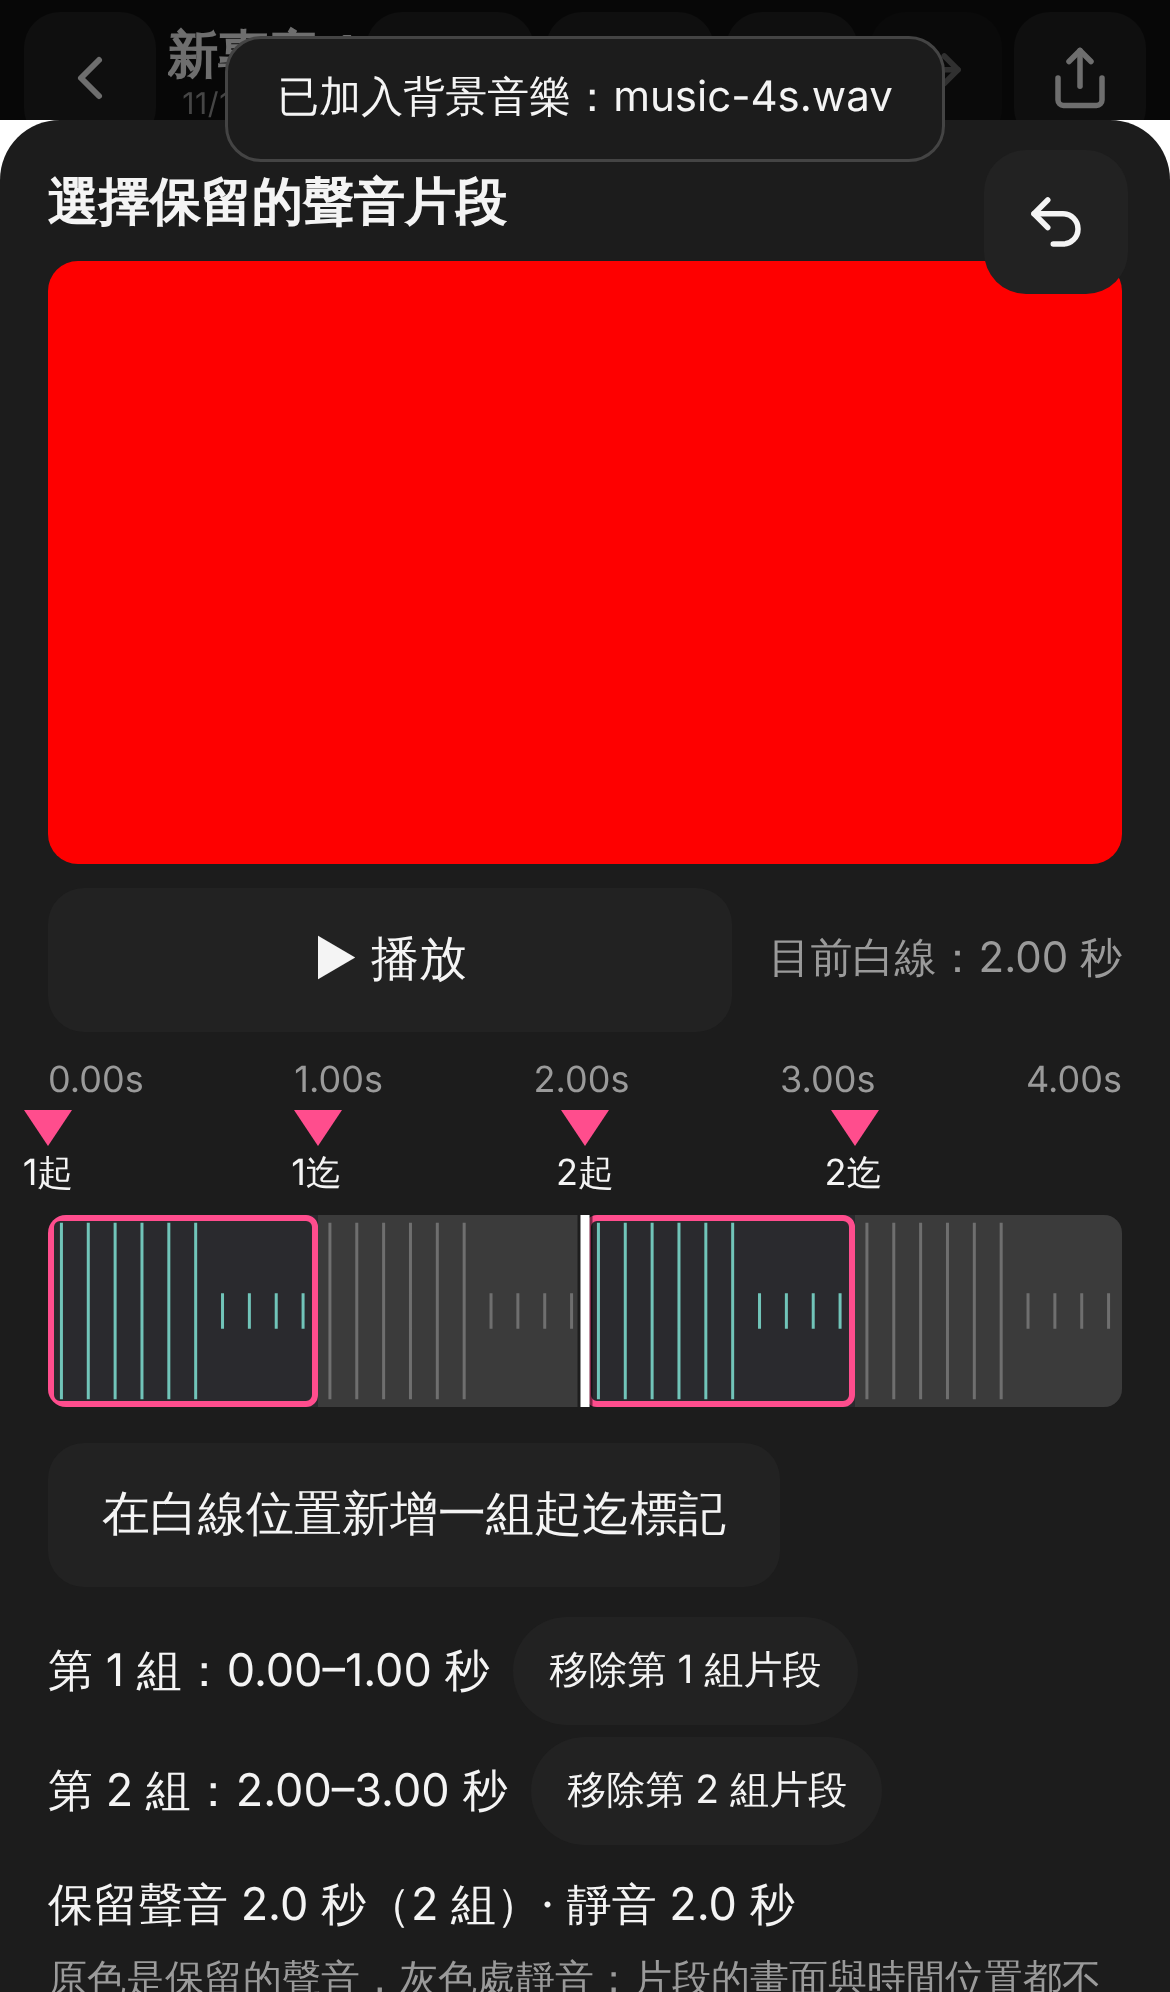
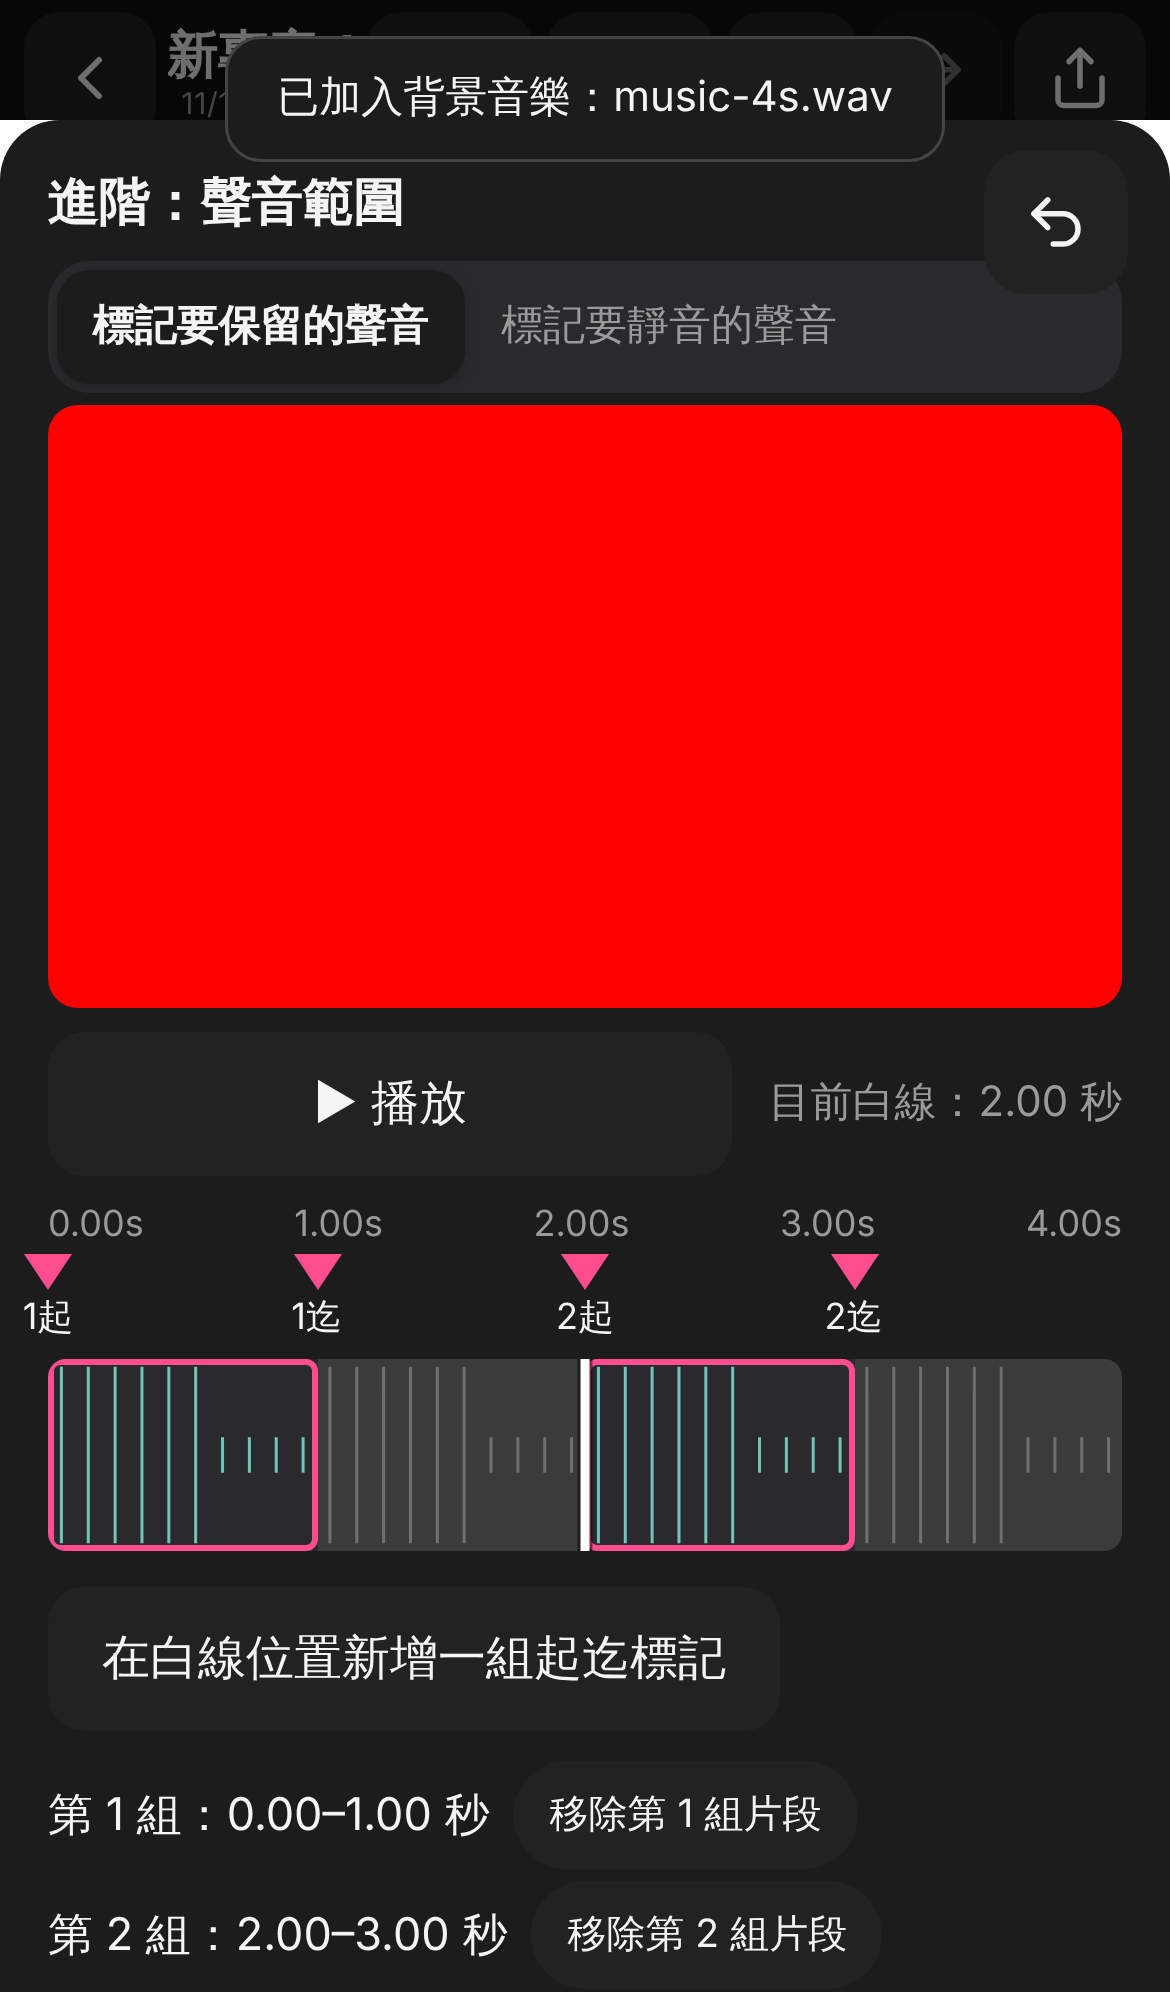
V3 音訊「進階」：可標記保留或標記靜音（互換）

Changed region(s): [[0.0308, 0.4046, 0.9846, 0.7781], [0.0308, 0.8092, 0.9231, 1.0], [0.0308, 0.0622, 0.9846, 0.2179]]

diff --git a/src/app/editor/MuteSheet.tsx b/src/app/editor/MuteSheet.tsx
@@ -1,5 +1,6 @@
+import { useRef, useState } from 'react';
 import { urlFor } from '../../engine/assetUrls';
-import { isFullRange } from '../../engine/audioRanges';
+import { invertRanges, isFullRange } from '../../engine/audioRanges';
 import { MIN_CLIP_DURATION } from '../../model/defaults';
 import type { Asset, VideoItem } from '../../model/types';
 import { editItem } from '../../store/actions';
@@ -7,22 +8,55 @@ import { useProjectStore } from '../../store/projectStore';
 import { useUI } from '../../store/uiStore';
 import { RangeMarkerSheet } from './RangeMarkerSheet';
 
+type R = [number, number];
+const MODE_KEY = 'vc-audio-range-mode';
+const readMode = (): 'keep' | 'silence' => {
+  try {
+    return localStorage.getItem(MODE_KEY) === 'silence' ? 'silence' : 'keep';
+  } catch {
+    return 'keep';
+  }
+};
+
 /**
- * 音訊「靜音標記」：標出片段裡要保留聲音的好幾段（原色保留、灰色靜音）。
- * 不拆片段、畫面與時間位置不變；全部都保留＝不用存標記。
+ * 音訊「進階」：標出聲音的範圍。兩種標法（結果一樣，存的都是「保留聲音的範圍」`audioRanges`）：
+ * - 標記要保留的聲音：標起來的有聲音、其他靜音（原色＝保留、灰＝靜音）
+ * - 標記要靜音的聲音：標起來的靜音、其他保留
+ * 不拆片段、畫面與時間位置不變；全部都保留＝不用存標記。切換標法時，標記會換算成另一種表示（聲音的結果不變）。
  */
 export function MuteSheet({ item, asset, onClose }: { item: VideoItem; asset: Asset; onClose: () => void }) {
   const projectId = useProjectStore((s) => s.project)!.id;
   const player = useUI((s) => s.player);
   const isAudio = asset.kind === 'audio';
   const url = urlFor(projectId, asset.id);
-  const initial = item.audioRanges ?? [[item.trimIn, item.trimIn + item.duration * item.speed]];
+  const span: R = [item.trimIn, item.trimIn + item.duration * item.speed]; // 這個片段用到的素材範圍
+  const keepNow: R[] = (item.audioRanges ?? [span]).map(([a, b]): R => [a, b]);
+  const [mode, setMode] = useState<'keep' | 'silence'>(readMode);
+  // 切換標法時要用目前的標記換算，所以記下來
+  const [initial, setInitial] = useState<R[]>(mode === 'keep' ? keepNow : invertRanges(keepNow, span));
+  const current = useRef<R[]>(initial);
+
+  const switchTo = (m: 'keep' | 'silence') => {
+    if (m === mode) return;
+    const next = invertRanges(current.current, span);
+    try {
+      localStorage.setItem(MODE_KEY, m);
+    } catch {
+      /* 存不了就算了 */
+    }
+    current.current = next;
+    setInitial(next);
+    setMode(m);
+  };
+
   return (
     <RangeMarkerSheet
-      title="選擇保留的聲音片段"
-      mode="mute"
+      key={mode}
+      title="進階：聲音範圍"
+      mode={mode === 'keep' ? 'mute' : 'silence'}
+      allowEmpty={mode === 'silence'}
       duration={asset.duration}
-      ranges={initial.map(([a, b]): [number, number] => [a, b])}
+      ranges={initial}
       minLen={MIN_CLIP_DURATION}
       thumbs={asset.thumbs}
       wave={isAudio ? asset.wave : undefined}
@@ -36,18 +70,49 @@ export function MuteSheet({ item, asset, onClose }: { item: VideoItem; asset: As
             }
           : undefined
       }
+      onRangesChange={(r) => {
+        current.current = r;
+      }}
+      extra={
+        <div className="segmented" role="radiogroup" aria-label="標記方式" data-testid="audio-range-mode">
+          {(
+            [
+              ['keep', '標記要保留的聲音'],
+              ['silence', '標記要靜音的聲音'],
+            ] as const
+          ).map(([m, name]) => (
+            <button
+              key={m}
+              role="radio"
+              aria-checked={mode === m}
+              className={`seg${mode === m ? ' on' : ''}`}
+              data-testid={`audio-mode-${m}`}
+              onClick={() => switchTo(m)}
+            >
+              {name}
+            </button>
+          ))}
+        </div>
+      }
       applyLabel="套用聲音範圍"
       summary={(ranges) => {
-        const keep = ranges.reduce((n, [a, b]) => n + (b - a), 0);
-        return `保留聲音 ${keep.toFixed(1)} 秒（${ranges.length} 組）· 靜音 ${Math.max(asset.duration - keep, 0).toFixed(1)} 秒`;
+        const total = span[1] - span[0];
+        const marked = ranges.reduce((n, [a, b]) => n + (Math.min(b, span[1]) - Math.max(a, span[0])), 0);
+        const keep = mode === 'keep' ? marked : total - marked;
+        return `保留聲音 ${Math.max(keep, 0).toFixed(1)} 秒 · 靜音 ${Math.max(total - keep, 0).toFixed(1)} 秒（${ranges.length} 組標記）`;
       }}
-      hint="原色是保留的聲音，灰色處靜音；片段的畫面與時間位置都不變。點縮圖只移動白線，按「新增」才建立下一組保留的範圍。"
+      hint={
+        mode === 'keep'
+          ? '原色是保留的聲音，灰色處靜音；片段的畫面與時間位置都不變。點縮圖只移動白線，按「新增」才建立下一組。'
+          : '灰色斜線的地方靜音，其他地方保留聲音；片段的畫面與時間位置都不變。點縮圖只移動白線，按「新增」才建立下一組。'
+      }
       onClose={onClose}
       onApply={(ranges) => {
+        const keep = mode === 'keep' ? ranges : invertRanges(ranges, span);
         editItem(item.id, (it) => {
           if (it.type === 'text') return;
-          if (isFullRange(it, ranges)) delete it.audioRanges;
-          else it.audioRanges = ranges.map(([a, b]): [number, number] => [a, b]);
+          if (isFullRange(it, keep)) delete it.audioRanges;
+          else it.audioRanges = keep.map(([a, b]): R => [a, b]);
         });
         onClose();
       }}

diff --git a/src/app/editor/RangeMarkerSheet.tsx b/src/app/editor/RangeMarkerSheet.tsx
@@ -1,5 +1,5 @@
 import { Undo2 } from 'lucide-react';
-import { useEffect, useRef, useState, type PointerEvent as RPointerEvent } from 'react';
+import { useEffect, useRef, useState, type PointerEvent as RPointerEvent, type ReactNode } from 'react';
 import type { Range } from '../../engine/timeline';
 import { toast } from '../../store/uiStore';
 import { thumbStrip } from '../../engine/thumbs';
@@ -14,7 +14,8 @@ import { Wave } from './Wave';
 const clamp = (n: number, lo: number, hi: number) => Math.min(Math.max(n, lo), hi);
 const fmt2 = (n: number) => n.toFixed(2);
 
-export type MarkerMode = 'keep' | 'mute' | 'timing';
+/** keep＝標起來的是留下的；mute＝標起來的是保留聲音的；silence＝標起來的是靜音的；timing＝特效時間 */
+export type MarkerMode = 'keep' | 'mute' | 'silence' | 'timing';
 
 export function RangeMarkerSheet({
   title,
@@ -35,6 +36,9 @@ export function RangeMarkerSheet({
   summary,
   onApply,
   onClose,
+  extra,
+  allowEmpty,
+  onRangesChange,
 }: {
   title: string;
   /** 整條軸的長度（秒） */
@@ -59,6 +63,12 @@ export function RangeMarkerSheet({
   summary?: (ranges: Range[]) => string;
   onApply: (ranges: Range[]) => void;
   onClose: () => void;
+  /** 標題下面多放的東西（例：進階的「保留／靜音」切換） */
+  extra?: ReactNode;
+  /** 一組標記都沒有也可以套用（靜音模式＝沒有要靜音的地方） */
+  allowEmpty?: boolean;
+  /** 標記有變動時通知呼叫端（切換模式時要換算） */
+  onRangesChange?: (ranges: Range[]) => void;
 }) {
   const dur = Math.max(duration, 0.1);
   const [ranges, setRanges] = useState<Range[]>(initial.map((r): Range => [r[0], r[1]]));
@@ -72,7 +82,9 @@ export function RangeMarkerSheet({
   const rangesRef = useRef(ranges);
   useEffect(() => {
     rangesRef.current = ranges;
-  });
+    onRangesChange?.(ranges);
+    // eslint-disable-next-line react-hooks/exhaustive-deps
+  }, [ranges]);
 
   const snapshot = () => {
     undo.current = [...undo.current.slice(-19), rangesRef.current.map((r): Range => [r[0], r[1]])];
@@ -120,7 +132,10 @@ export function RangeMarkerSheet({
       if (m) {
         const t = (m.currentTime - srcOffset) / srcSpeed;
         setCursor(clamp(t, 0, dur));
-        if (mode !== 'timing') m.volume = rangesRef.current.some(([a, b]) => t >= a && t < b) ? 1 : 0;
+        if (mode !== 'timing') {
+          const inside = rangesRef.current.some(([a, b]) => t >= a && t < b);
+          m.volume = (mode === 'silence' ? !inside : inside) ? 1 : 0;
+        }
         if (m.ended || t >= dur - 0.02) {
           m.pause();
           setPlaying(false);
@@ -231,6 +246,7 @@ export function RangeMarkerSheet({
       >
         <Undo2 size={22} />
       </button>
+      {extra}
       <div className="rm-preview" data-testid="rm-preview">
         {mediaKind === 'video' && mediaUrl && (
           <video
@@ -314,7 +330,7 @@ export function RangeMarkerSheet({
               thumbStrip(thumbs, 1, 0, 1, 8).map((t, i) => <img key={i} src={t} alt="" draggable={false} />)
             ) : null}
           </div>
-          {gaps.map(([a, b], i) => (
+          {(mode === 'silence' ? [] : gaps).map(([a, b], i) => (
             <div
               key={i}
               className="rm-gray"
@@ -325,7 +341,7 @@ export function RangeMarkerSheet({
           {ranges.map(([a, b], i) => (
             <div
               key={i}
-              className="rm-body"
+              className={`rm-body${mode === 'silence' ? ' silence' : ''}`}
               data-testid={`range-body-${i}`}
               style={{ left: pct(a), width: `${((b - a) / dur) * 100}%` }}
             />
@@ -362,7 +378,7 @@ export function RangeMarkerSheet({
         <button
           className="btn primary"
           data-testid="rm-apply"
-          disabled={ranges.length === 0}
+          disabled={ranges.length === 0 && !allowEmpty}
           onClick={() => onApply(ranges)}
         >
           {applyLabel}

diff --git a/src/engine/audioRanges.test.ts b/src/engine/audioRanges.test.ts
@@ -1,6 +1,6 @@
 import { describe, expect, it } from 'vitest';
 import type { VideoItem } from '../model/types';
-import { audioRetained, audioSpans, isFullRange } from './audioRanges';
+import { audioRetained, audioSpans, invertRanges, isFullRange } from './audioRanges';
 
 const it_ = (extra: Partial<VideoItem> = {}): VideoItem =>
   ({
@@ -69,5 +69,42 @@ describe('isFullRange', () => {
       ]),
     ).toBe(false);
     expect(isFullRange(it_(), [[1.5, 5]])).toBe(false);
+  });
+});
+
+describe('invertRanges：保留 ⇄ 靜音 互換', () => {
+  it('中間挖一段、頭尾、整段、空', () => {
+    expect(invertRanges([[1, 2]], [0, 4])).toEqual([
+      [0, 1],
+      [2, 4],
+    ]);
+    expect(
+      invertRanges(
+        [
+          [0, 1],
+          [3, 4],
+        ],
+        [0, 4],
+      ),
+    ).toEqual([[1, 3]]);
+    expect(invertRanges([[0, 4]], [0, 4])).toEqual([]);
+    expect(invertRanges([], [0, 4])).toEqual([[0, 4]]);
+  });
+  it('範圍超出、重疊、沒排序也行；互換兩次回到原樣', () => {
+    expect(
+      invertRanges(
+        [
+          [3, 9],
+          [-2, 1],
+          [0.5, 1.5],
+        ],
+        [0, 4],
+      ),
+    ).toEqual([[1.5, 3]]);
+    const keep: [number, number][] = [
+      [0, 1],
+      [2, 3.5],
+    ];
+    expect(invertRanges(invertRanges(keep, [0, 4]), [0, 4])).toEqual(keep);
   });
 });

diff --git a/src/engine/audioRanges.ts b/src/engine/audioRanges.ts
@@ -32,3 +32,22 @@ export function isFullRange(item: VideoItem, ranges: R[]): boolean {
   }
   return at >= srcEnd - 1e-3;
 }
+
+/**
+ * 互補的範圍：在 [from, to] 裡，ranges 沒蓋到的地方（保留 ⇄ 靜音 互換用）。
+ * 先排序合併、夾在 [from, to] 裡；比 1ms 短的空隙不算。
+ */
+export function invertRanges(ranges: R[], [from, to]: R): R[] {
+  const sorted = ranges
+    .map(([a, b]): R => [Math.max(a, from), Math.min(b, to)])
+    .filter(([a, b]) => b - a > 1e-6)
+    .sort((x, y) => x[0] - y[0]);
+  const out: R[] = [];
+  let at = from;
+  for (const [a, b] of sorted) {
+    if (a - at > 1e-3) out.push([at, a]);
+    at = Math.max(at, b);
+  }
+  if (to - at > 1e-3) out.push([at, to]);
+  return out;
+}

diff --git a/src/app/editor/tabs/AudioTab.tsx b/src/app/editor/tabs/AudioTab.tsx
@@ -180,10 +180,10 @@ export function AudioTab({
               <button
                 className={`chip sm${item.audioRanges ? ' active' : ''}`}
                 data-testid="audio-mute"
-                aria-label={`靜音標記 ${itemTitle(item, asset)}`}
+                aria-label={`進階 ${itemTitle(item, asset)}`}
                 onClick={() => setMuteFor(item.id)}
               >
-                靜音標記{item.audioRanges ? `（${item.audioRanges.length}）` : ''}
+                進階{item.audioRanges ? `（${item.audioRanges.length}）` : ''}
               </button>
               {item.type === 'audio' && (
                 <button

diff --git a/src/app/styles.css b/src/app/styles.css
@@ -3244,3 +3244,8 @@ button:not(:disabled):active,
 .layout-card:active {
   transform: scale(0.96);
 }
+
+/* 進階：標記要靜音的聲音——標起來的地方畫成灰色斜線 */
+.rm-body.silence {
+  background: repeating-linear-gradient(135deg, rgba(60, 60, 60, 0.7) 0 5px, rgba(60, 60, 60, 0.45) 5px 10px);
+}
